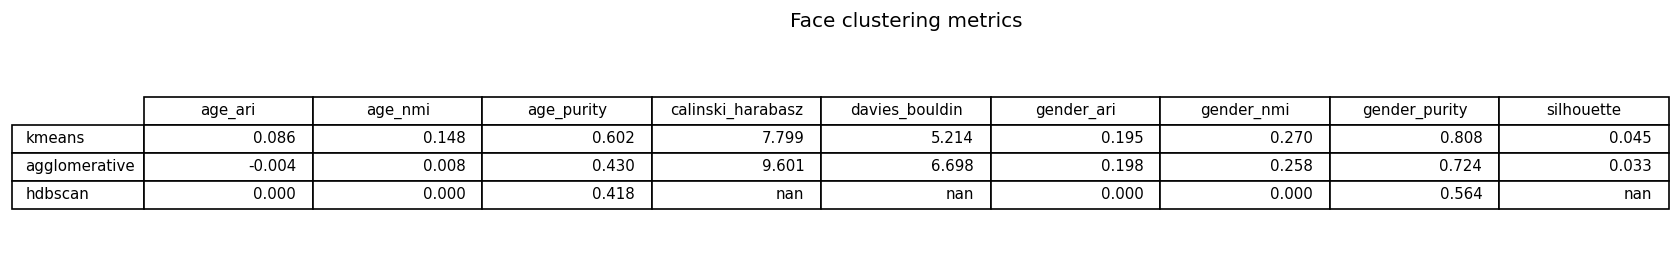
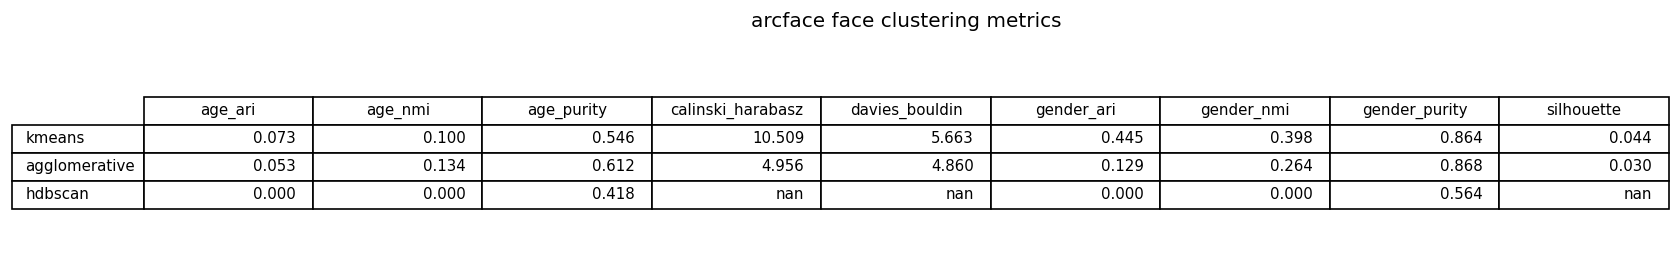
docs: attribute-driven k-selection results (KMeans k=3, gender purity 0.86) + viewer
Part B default k_selection=attribute (gender+age AMI): KMeans picks k=3 (women/men/young),
gender purity 0.864 vs silhouette k=6's 0.808 — gender is the dominant structure. README +
SUMMARY document silhouette-vs-attribute k-selection; regenerated arcface results/figures/viewer.

diff --git a/SUMMARY.md b/SUMMARY.md
@@ -60,17 +60,28 @@ validation: the model's predicted age/gender act as pseudo-labels, scored by **N
 purity**. This turns "is this clustering good?" from a guess into a measurement.
 
 ## How we chose the number of clusters
-**Automatically.** For KMeans and Agglomerative we sweep *k* over a range and pick the *k*
-with the **best cosine silhouette**. HDBSCAN needs no *k* (density-based).
+**Automatically, two ways (configurable per part).**
+- **Silhouette sweep (default):** for KMeans/Agglomerative, sweep *k* and pick the *k* with the
+  best cosine silhouette. HDBSCAN needs no *k*.
+- **Attribute-driven (Part B):** sweep *k* and pick the *k* that maximizes **gender + age AMI**
+  (adjusted mutual information — chance-corrected, so it doesn't reward over-splitting). This
+  lets *the attributes we care about* drive *k*, not geometric separation.
 
-**Could it be better?** Silhouette is a reasonable default but biased toward few, well-separated
-clusters, and:
-- *Part A (n=14):* with so few items, "best k" is unstable (it picked 7 for DINOv2, 3 for CLIP);
-  a smaller fixed k would be more interpretable. Numbers are illustrative.
-- *Part B:* the structure is genuinely continuous (gender × age × pose), so **no single k is
-  "correct."** A better strategy would be to pick *k* that **maximizes attribute alignment**
-  (NMI/purity vs gender+age) rather than pure silhouette — i.e., let the thing we care about
-  drive *k* — or fix *k* from domain knowledge (e.g. gender×age strata).
+**Why it matters — Part B comparison:**
+
+| k-selection | k | gender purity | gender NMI |
+|---|---|---|---|
+| silhouette | 6 | 0.808 | 0.270 |
+| **attribute (AMI)** | **3** | **0.864** | **0.398** |
+
+Attribute-driven selection collapses to **k=3 (women / men / a young cohort)** and aligns
+*better* with gender than silhouette's k=6 — confirming **gender is the dominant structure**.
+(Agglomerative under AMI still rails to k_max=12: its finer splits stay gender-coherent so AMI
+keeps rising — an honest signature of a continuous manifold, not a degenerate artifact.)
+
+**Caveats:** *Part A (n=14)* "best k" is unstable (silhouette picked 7 for DINOv2, 3 for CLIP) —
+illustrative only. *Part B* structure is continuous (gender × age × pose), so no single k is
+"correct"; the attribute-driven k is the most *interpretable* choice for this goal.
 
 ---
 

diff --git a/README.md b/README.md
@@ -222,6 +222,16 @@ Observations:
   ≠ more useful clustering: the face-specialized model earns its place by producing
   *attribute-meaningful* groups. Both are toggles in the Part B viewer.
 
+**Choosing k — silhouette vs attribute-driven.** The detailed k=6 result above is the
+*silhouette* selection. Because the structure is continuous and what we care about is
+*attributes*, Part B also supports **attribute-driven k-selection** (`clustering.k_selection:
+attribute`): sweep k and pick the k that maximizes **gender + age AMI** (adjusted mutual
+information). On KMeans this collapses to **k=3** (women 97% F · men 86% M · a young cohort)
+with **gender purity 0.864 > 0.808** and gender NMI 0.398 > 0.270 — a *more* gender-meaningful
+partition than silhouette's k=6. (This is now the default; silhouette is one flag away.)
+Agglomerative under AMI still climbs to k_max because its finer splits stay gender-coherent —
+the same continuous-manifold signature HDBSCAN showed.
+
 **Figures** (`reports/part_b/`): `arcface_kmeans_umap.png` (clusters), `arcface_metrics.png`,
 `arcface_clusters_montage.png` (sample faces per cluster — the gender/age grouping is visible
 at a glance), plus the agglomerative/hdbscan scatters. Per-cluster profiles are in